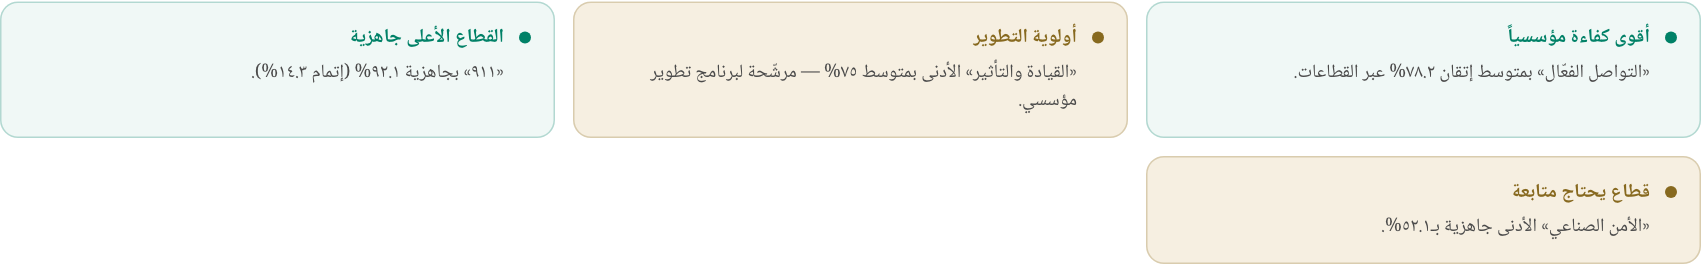
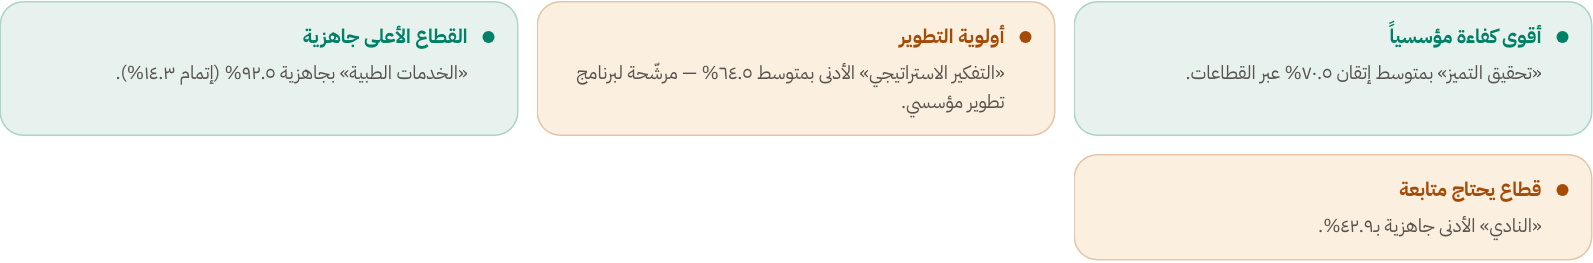
الدليل: القيادة التنفيذية بعد إعادة ترتيبها
- نصوص قسم القيادة التنفيذية ويوم مدير المركز تتبع الشاشة: سطر المقارنة بدل الشارة، والخريطة بالقطاعات صفوفاً، ونافذة الاتجاه في بطاقتها
- ثماني لقطات مُعاد التقاطها، ووصفتا الخريطة ونافذة الاتجاه على محدِّداتهما الجديدة
- capture-guide: الشريط العلوي اللاصق يُعاد إلى التدفّق أثناء لقطة العنصر — كان يغطّي رأس كل عنصرٍ أطول من النافذة

diff --git a/docs/USER_GUIDE.md b/docs/USER_GUIDE.md
@@ -453,7 +453,7 @@
 **١ — اقرأ اليوم قبل أن يبدأ** *(لوحة التحكم ← القيادة التنفيذية للمركز)*
 
 1. افتح **لوحة التحكم** واقرأ الشرائح الثلاث: **حضور اليوم** و**جلسات نشطة** و**مشاركون جدد**، ثم مقياس **جاهزية القيادة**.
-2. افتح **القيادة التنفيذية للمركز** واقرأ البطاقات الأربع وشارات الفرق؛ تلميحها **«مقارنة بالفترة السابقة»**.
+2. افتح **القيادة التنفيذية للمركز** واقرأ البطاقات الأربع والسطر تحت كلٍّ منها — يقارن آخر ٣٠ يوماً بالثلاثين قبلها بأرقامهما.
 3. انزل إلى **رؤى تلقائية** وابدأ من بطاقتَي **أولوية التطوير** و**اختناق الاعتماد** — هما اللتان تقودان إلى إجراء.
 
 النتيجة: أربعة أرقام قيادية مع اتجاه آخر ثلاثين يوماً، وأطول طابور في سلسلة الاعتماد، وأضعف كفاءة مؤسسياً. أرقام اللوحة كلها من التقارير **المعتمدة** وحدها — لا يحرّكها تقرير ما زال في السلسلة.
@@ -5178,17 +5178,18 @@
 
 | العنصر | معناه |
 |---|---|
-| **آخر ٣ أشهر** · **آخر ٦ أشهر** · **آخر سنة** · **آخر سنتين** | نافذة **الاتجاه الشهري**. المحدَّد افتراضاً «آخر ٦ أشهر». تخصّ تبويب المؤشرات وحده فلا تظهر في غيره |
+| **آخر ٣ أشهر** · **آخر ٦ أشهر** · **آخر سنة** · **آخر سنتين** | نافذة **الاتجاه الشهري**، في ترويسة بطاقته. المحدَّد افتراضاً «آخر ٦ أشهر». تغيّر هذا الرسم وحده — لا المؤشرات ولا الخريطة ولا المقارنات |
 | **تصدير PDF** | يفتح نافذة طباعة المتصفّح على **التبويب المفتوح وحده** |
-| **إجمالي المشاركين** | عدد كل المشاركين ضمن تصنيفاتك. الشارة بجانبه = فرق **المُضافين** في آخر ٣٠ يوماً مقارنةً بالثلاثين التي قبلها، لا فرق الإجمالي |
+| **إجمالي المشاركين** | عدد كل المشاركين ضمن تصنيفاتك. السطر تحته = **الجدد** في آخر ٣٠ يوماً مقابل الثلاثين التي قبلها، لا نموّ الإجمالي |
 | **قيد التقييم** | المشاركون في حالة «مجدول» أو «مُقيّم». بلا شارة فرق |
-| **تقارير معتمدة** | عدد التقارير المعتمدة، وشارتها فرق آخر ٣٠ يوماً عمّا قبلها |
-| **متوسط الجاهزية** | متوسّط (التوافق السلوكي + الفني) ÷ ٢ للتقارير المعتمدة |
-| شارة الفرق (تلميحها **«مقارنة بالفترة السابقة»**) | سهم لأعلى ونسبة خضراء = ارتفاع، سهم لأسفل ونسبة حمراء = انخفاض |
+| **تقارير معتمدة** | عدد التقارير المعتمدة، والسطر تحته: المعتمدة في آخر ٣٠ يوماً مقابل الثلاثين قبلها |
+| **متوسط الجاهزية** | متوسّط (التوافق السلوكي + الفني) ÷ ٢ للتقارير المعتمدة، والسطر تحته فرقُ جاهزية معتمدات آخر ٣٠ يوماً عن الثلاثين قبلها **بالنقاط**. بلا تقارير معتمدة يظهر «—» |
+| سطر المقارنة تحت المؤشر | يكتب القيمتين لا النسبة وحدها: «▲ ١٣٪ — الجدد خلال ٣٠ يوماً: ٥٢ مقابل ٤٦». ▲ أخضر = ارتفاع، ▼ كهرماني = انخفاض، ● = ثبات. وحين لا شيء في الثلاثين السابقة يقول ذلك صراحةً بدل نسبةٍ لا معنى لها |
+| سطر التنبيه الأزرق تحت المؤشرات | أرقام التبويب على **كامل السجلّ** لا على فترة — إلا سطر المقارنة والاتجاه الشهري |
 | **رؤى تلقائية** | جُمل مشتقّة من الأرقام نفسها: **أقوى كفاءة مؤسسياً** · **أولوية التطوير** · **القطاع الأعلى جاهزية** · **قطاع يحتاج متابعة** · **اتجاه الجاهزية** · **اختناق الاعتماد**. لا تظهر رؤية لا تتوفّر بياناتها |
-| **خريطة إتقان الكفاءات × القطاع** | صفٌّ لكل كفاءة وعمودٌ لكل قطاع؛ الرقم نسبة الإتقان، وشدّة الخضرة تتبعه. الوسيلة أسفلها: **أضعف** ← **أقوى**. النقطة بجانب اسم الكفاءة تدلّ على نوعها |
-| **الاتجاه الشهري** | الأعمدة **تقارير معتمدة**، والخطّ **متوسط الجاهزية %**. كل شهر في المدى يظهر ولو كان صفراً |
-| **مقارنة القطاعات بالجاهزية** | الرتبة، اسم القطاع، شريط الجاهزية، النسبة، ثم «مكتمل ÷ الكل». مرتّبة تنازلياً بالجاهزية |
+| **خريطة إتقان الكفاءات حسب القطاع** | صفٌّ لكل قطاع وعمودٌ لكل كفاءة، بعرض البطاقة كاملاً. في الخانة **نسبة الإتقان** (متوسط الدرجات من أعلى مستوى في الكفاءة) وتحتها **عدد الدرجات** التي بُنيت عليها، وشدّة الخضرة تتبع النسبة. الوسيلة أسفلها: **٠٪** ← **١٠٠٪**. النقطة بجانب اسم الكفاءة تدلّ على نوعها |
+| **الاتجاه الشهري** | الأعمدة **تقارير معتمدة** ومحورها الأيمن، والخطّ **متوسط الجاهزية %** ومحوره الأيسر (٠–١٠٠٪). تحت كل عمود اسم الشهر، والسنة تحت أوّل شهر وتحت كل يناير. كل شهر في المدى يظهر ولو كان صفراً، والمرور فوقه يُظهر رقميه |
+| **مقارنة القطاعات بالجاهزية** | الرتبة، اسم القطاع، شريط الجاهزية (على ١٠٠٪)، النسبة، ثم «مكتمل ÷ الكل». مرتّبة تنازلياً بالجاهزية |
 | **الفئات القيادية** | **القيادة العليا** و**القيادة الوسطى**: متوسّط الجاهزية و«مكتمل ÷ الكل» لكلٍّ منهما |
 | **توزيع الجاهزية** | التقارير المعتمدة على أربع شرائح: **ممتاز (٨٥+)** · **جيّد (٧٠–٨٥)** · **متوسّط (٥٥–٧٠)** · **يحتاج تطويراً (<٥٥)** |
 
@@ -5197,12 +5198,12 @@
 **١) قراءة المؤشرات وفروق الفترة**
 
 1. افتح **القيادة التنفيذية للمركز** من القائمة الجانبية.
-2. اقرأ البطاقات الأربع.
-3. مرّر المؤشر فوق شارة النسبة لترى تلميح **«مقارنة بالفترة السابقة»**.
+2. اقرأ البطاقات الأربع: التسمية أعلاها ثم الرقم.
+3. اقرأ السطر تحت الرقم — يقارن آخر ٣٠ يوماً بالثلاثين قبلها بأرقامهما.
 
 النتيجة: أربعة أرقام قيادية، ومعها اتجاه آخر ثلاثين يوماً مقارنةً بالثلاثين التي سبقتها.
 
-![بطاقات المؤشرات مع شارات الفرق](guide-images/executive-kpis.png)
+![بطاقات المؤشرات مع سطر المقارنة](guide-images/executive-kpis.png)
 
 **٢) قراءة الرؤى التلقائية**
 
@@ -5216,19 +5217,19 @@
 
 **٣) قراءة الخريطة الحرارية**
 
-1. انظر إلى **خريطة إتقان الكفاءات × القطاع**.
+1. انزل إلى **خريطة إتقان الكفاءات حسب القطاع** — صفٌّ لكل قطاع.
 2. الخانات الفاتحة هي نقاط الضعف، والداكنة نقاط القوة.
-3. مرّر المؤشر فوق أي خانة لترى «الكفاءة — القطاع: النسبة (عدد العيّنات)».
-4. الخانة التي فيها `—` لا بيانات لها.
+3. اقرأ الرقم الصغير تحت النسبة: عدد الدرجات. خانةٌ من درجةٍ أو درجتين قراءتُها أضعف من خانةٍ من عشرين.
+4. الخانة التي فيها `—` لا درجات لها بعد.
 
 النتيجة: تحديد الكفاءة الضعيفة في قطاعٍ بعينه لا على مستوى المركز كلّه.
 
-![خريطة إتقان الكفاءات × القطاع](guide-images/executive-heatmap.png)
+![خريطة إتقان الكفاءات حسب القطاع](guide-images/executive-heatmap.png)
 
 **٤) تغيير نافذة الاتجاه**
 
-1. اضغط **آخر سنة** في مجموعة الأزرار أعلى اليسار.
-2. انتظر إعادة التحميل.
+1. اضغط **آخر سنة** في مجموعة الأزرار بترويسة بطاقة **الاتجاه الشهري**.
+2. تُعتِم البطاقة لحظةَ التحميل، ويبقى باقي التبويب في مكانه.
 
 النتيجة: يُعاد رسم **الاتجاه الشهري** على اثني عشر شهراً، وقد تتغيّر رؤية **اتجاه الجاهزية** لأنها مشتقّة منه. أمّا المؤشرات والخريطة ومقارنة القطاعات والفئات والتوزيع فلا تتأثّر بالنافذة.
 
